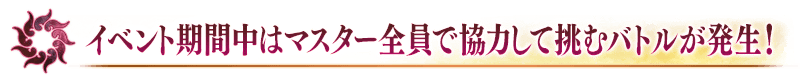
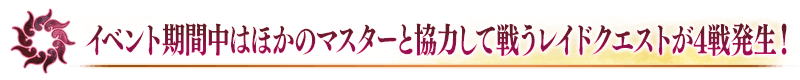
tunguska-sanctuary_02_huesd

Changed region(s): [[0.0938, 0.275, 1.0, 0.725]]

diff --git a/common/js/sidebar.js b/common/js/sidebar.js
@@ -5,7 +5,7 @@ function loadsidebar()
 	 window.location.href = targetProtocol + window.location.href.substring(window.location.protocol.length);
 	}
 	if(!(location.pathname=='/fgo-vz/'||location.pathname.indexOf('index')!=-1)) {$('div.container').prepend('<script async src="//pagead2.googlesyndication.com/pagead/js/adsbygoogle.js"><\/script><div style="margin:0px auto;width:728px;height:90px;background:url(\'common/images/info_banner.png\');"><ins class="adsbygoogle"     style="display:inline-block;width:728px;height:90px"     data-ad-client="ca-pub-3881979894805188"     data-ad-slot="5322095555"></ins><script>(adsbygoogle = window.adsbygoogle || []).push({});<\/script></div>');slideOpen();}
-	$('#div_right_sidebar').append('<a href="./"><div class="sidebarl" style="background-image:url(common/images/sidebar01.png);">首頁</div></a><a href="https://www.facebook.com/472978160149131/" target="_blank"><div class="sidebarl" style="background-image:url(common/images/sidebar17.png);">Facebook</div></a><a href="https://discord.gg/nEaXVvS" target="_blank"><div class="sidebarl" style="background-image:url(common/images/sidebar17.png);">Discord</div></a><a href="servant.html"><div class="sidebarl" style="background-image:url(common/images/sidebar05.png);">從者</div></a><a href="skill.html"><div class="sidebar" style="background-image:url(common/images/sidebar00.png);">技能</div></a><a href="noble_phantasm.html"><div class="sidebar" style="background-image:url(common/images/sidebar00.png);">寶具</div></a><a href="lv100.html"><div class="sidebar" style="background-image:url(common/images/sidebar00.png);">HP與ATK</div></a><a href="hidden.html"><div class="sidebar" style="background-image:url(common/images/sidebar00.png);">隱藏數値</div></a><a href="craft_essence.html"><div class="sidebarl" style="background-image:url(common/images/sidebar09.png);">概念禮裝</div></a><a href="command_code.html"><div class="sidebarl" style="background-image:url(common/images/sidebar18.png);">指令紋章</div></a><a href="item_drop.html"><div class="sidebarl" style="background-image:url(common/images/sidebar15.png);">素材道具</div></a><a href="quest.html"><div class="sidebarl" style="background-image:url(common/images/sidebar04.png);">關卡</div></a><a href="master_equip.html"><div class="sidebarl" style="background-image:url(common/images/sidebar03.png);">御主相關</div></a><a href="donate.html"><div class="sidebarl" style="background-image:url(common/images/sidebar11.png);"><span class="red">贊助支持</span></div></a><div class="sidebarl" id="survey_bannner" style="background-image:url(common/images/sidebar08.png);">意見回饋</div><a href="event_history.html"><div class="sidebarl" style="background-image:url(common/images/sidebar10.png);">過去活動</div></a><a href="event_main_quest_clear_cp4.html" title="『「FGO 迦勒底・衛星基地台 2021-2022」福岡會場舉辦記念宣傳活動』"><div class="sidebar_event" style="background-image:url(common/images/2021/main_quest_clear_cp4_exqsi/top_banner.png);"></div></a><a href="gacha_main_quest_clear_cp4_pu.html" title="「阿瓦隆・勒菲通過聲援Pick Up召喚(每日交替)」"><div class="sidebar_event" style="background-image:url(common/images/2021/main_quest_clear_cp4_pu_xjtox/top_banner.png);"></div></a><a href="event_winter2022_cp.html" title="『「FGO 迦勒底・衛星基地台 2021-2022」福岡會場舉辦記念宣傳活動』"><div class="sidebar_event" style="background-image:url(common/images/2021/winter2022_cp_qafhf/top_banner.png);"></div></a><a href="gacha_christmas2021_pu.html" title="「聖誕節製作派對！Pick Up召喚(每日交替)」"><div class="sidebar_event" style="background-image:url(common/images/2021/christmas2021_pu_pkdsh/top_banner.png);"></div></a><a href="event_tunguska-sanctuary.html" title="「非靈長生存圏 通古斯卡聖域」"><div class="sidebar_event" style="background-image:url(common/images/2021/tunguska-sanctuary_awkde/top_banner.png);"></div></a><a href="event_main_quest_clear_cp3.html" title="「主線關卡通過聲援宣傳活動 第3彈」"><div class="sidebar_event" style="background-image:url(common/images/2021/main_quest_clear_cp3_yqiyt/top_banner.png);"></div></a><a href="event_1201info.html" title="魔力稜鏡交換限定概念禮裝追加！"><div class="sidebar_event" style="background-image:url(common/images/2021/1201info_viisje/top_banner.png);"></div></a><a href="event_main_quest_clear_cp2.html" title="「主線關卡通過聲援宣傳活動 第2彈」"><div class="sidebar_event" style="background-image:url(common/images/2021/main_quest_clear_cp2_02_qmzsv/top_banner.png);"></div></a><a href="event_main_quest_clear_cp1.html" title="「主線關卡通過聲援宣傳活動 第1彈」"><div class="sidebar_event" style="background-image:url(common/images/2021/main_quest_clear_cp1_02_ihxkb/top_banner.png);"></div></a><div style="height:35px;"></div>');
+	$('#div_right_sidebar').append('<a href="./"><div class="sidebarl" style="background-image:url(common/images/sidebar01.png);">首頁</div></a><a href="https://www.facebook.com/472978160149131/" target="_blank"><div class="sidebarl" style="background-image:url(common/images/sidebar17.png);">Facebook</div></a><a href="https://discord.gg/nEaXVvS" target="_blank"><div class="sidebarl" style="background-image:url(common/images/sidebar17.png);">Discord</div></a><a href="servant.html"><div class="sidebarl" style="background-image:url(common/images/sidebar05.png);">從者</div></a><a href="skill.html"><div class="sidebar" style="background-image:url(common/images/sidebar00.png);">技能</div></a><a href="noble_phantasm.html"><div class="sidebar" style="background-image:url(common/images/sidebar00.png);">寶具</div></a><a href="lv100.html"><div class="sidebar" style="background-image:url(common/images/sidebar00.png);">HP與ATK</div></a><a href="hidden.html"><div class="sidebar" style="background-image:url(common/images/sidebar00.png);">隱藏數値</div></a><a href="craft_essence.html"><div class="sidebarl" style="background-image:url(common/images/sidebar09.png);">概念禮裝</div></a><a href="command_code.html"><div class="sidebarl" style="background-image:url(common/images/sidebar18.png);">指令紋章</div></a><a href="item_drop.html"><div class="sidebarl" style="background-image:url(common/images/sidebar15.png);">素材道具</div></a><a href="quest.html"><div class="sidebarl" style="background-image:url(common/images/sidebar04.png);">關卡</div></a><a href="master_equip.html"><div class="sidebarl" style="background-image:url(common/images/sidebar03.png);">御主相關</div></a><a href="donate.html"><div class="sidebarl" style="background-image:url(common/images/sidebar11.png);"><span class="red">贊助支持</span></div></a><div class="sidebarl" id="survey_bannner" style="background-image:url(common/images/sidebar08.png);">意見回饋</div><a href="event_history.html"><div class="sidebarl" style="background-image:url(common/images/sidebar10.png);">過去活動</div></a><a href="event_tunguska-sanctuary.html" title="「非靈長生存圏 通古斯卡聖域」"><div class="sidebar_event" style="background-image:url(common/images/2021/tunguska-sanctuary_02_huesd/top_banner.png);"></div></a><a href="event_main_quest_clear_cp4.html" title="『「FGO 迦勒底・衛星基地台 2021-2022」福岡會場舉辦記念宣傳活動』"><div class="sidebar_event" style="background-image:url(common/images/2021/main_quest_clear_cp4_exqsi/top_banner.png);"></div></a><a href="gacha_main_quest_clear_cp4_pu.html" title="「阿瓦隆・勒菲通過聲援Pick Up召喚(每日交替)」"><div class="sidebar_event" style="background-image:url(common/images/2021/main_quest_clear_cp4_pu_xjtox/top_banner.png);"></div></a><a href="event_winter2022_cp.html" title="『「FGO 迦勒底・衛星基地台 2021-2022」福岡會場舉辦記念宣傳活動』"><div class="sidebar_event" style="background-image:url(common/images/2021/winter2022_cp_qafhf/top_banner.png);"></div></a><a href="gacha_christmas2021_pu.html" title="「聖誕節製作派對！Pick Up召喚(每日交替)」"><div class="sidebar_event" style="background-image:url(common/images/2021/christmas2021_pu_pkdsh/top_banner.png);"></div></a><a href="event_main_quest_clear_cp3.html" title="「主線關卡通過聲援宣傳活動 第3彈」"><div class="sidebar_event" style="background-image:url(common/images/2021/main_quest_clear_cp3_yqiyt/top_banner.png);"></div></a><a href="event_1201info.html" title="魔力稜鏡交換限定概念禮裝追加！"><div class="sidebar_event" style="background-image:url(common/images/2021/1201info_viisje/top_banner.png);"></div></a><a href="event_main_quest_clear_cp2.html" title="「主線關卡通過聲援宣傳活動 第2彈」"><div class="sidebar_event" style="background-image:url(common/images/2021/main_quest_clear_cp2_02_qmzsv/top_banner.png);"></div></a><a href="event_main_quest_clear_cp1.html" title="「主線關卡通過聲援宣傳活動 第1彈」"><div class="sidebar_event" style="background-image:url(common/images/2021/main_quest_clear_cp1_02_ihxkb/top_banner.png);"></div></a><div style="height:35px;"></div>');
 	$('#survey_bannner').on("click", function() {
 		if(!confirm ('本站與FGO官方無任何關係，不受理任何投訴\n點擊[取消]前往') ){
 			var newwin = window.open();

diff --git a/event_tunguska-sanctuary.html b/event_tunguska-sanctuary.html
@@ -89,9 +89,13 @@ body {
     <!--主要內容區塊開始-->
     <div id="div_content"><div class="container">
 <article class="content textsize" style="width:840px">
-<!-- block -->
 <!-- block--->
-<p><img alt="TOPバナー" height="300" src="common/images/2021/tunguska-sanctuary_awkde/top_banner.png" width="800"/>
+<p><img alt="TOPバナー" height="300" src="common/images/2021/tunguska-sanctuary_02_huesd/top_banner.png" width="800"/>
+<span class="em01">
+※12月18日(六) 17:00圖片更新
+</span>
+</p>
+<p><img alt="序幕(プロローグ)" height="300" src="common/images/2021/tunguska-sanctuary_02_huesd/prologue.png" width="800"/>
 </p>
 <p class="heading" id="ttl1"><img alt="" src="common/images/2021/tunguska-sanctuary_awkde/midashi_01.png"/></p>
 <div class="em01">
@@ -106,7 +110,9 @@ body {
 </p>
 </div>
 <p><span class="diamond">◆</span><span class="strong">活動預定舉辦</span><span class="diamond">◆</span><br/>
-<span class="em01">2021年12月下旬</span></p>
+<span class="em01">2021年12月22日(三) 17:00(預定)～<br/>
+※12月18日(六) 17:00更新
+</span></p>
 <p><span class="diamond">◆</span><span class="strong">活動參加條件</span><span class="diamond">◆</span><br/>
 <span class="em01 notice">滿足以下條件的御主才能參加<br/>
 ・通過第2部 第6章「Lostbelt No.6 妖精圓卓領域 阿瓦隆・勒菲 星辰誕生之刻」
@@ -134,32 +140,113 @@ body {
 <!--/block-->
 <!-- block--->
 <p class="heading" id="ttl3"><img alt="" src="common/images/2021/tunguska-sanctuary_02_huesd/midashi_03.png"/></p>
+<p><img alt="" src="common/images/2021/tunguska-sanctuary_02_huesd/info_raid_01.png"/></p>
 <div class="em01">
 <p>
-【12月15日(三) 17:00追記】<br/>
-期間限定活動「非靈長生存圏 通古斯卡聖域」中，在活動期間中會發生幾次與其他御主合作作戰的特殊形式戰鬥。<br/>
-關於詳情將在2021年12月18日(六) 16:00～(預定)的「FGO 迦勒底・サテライトステーション 2021-2022」福岡会場にてご介紹いたします！
+【12月18日(六) 17:00追記】<br/>
+在「FGO 迦勒底・衛星基地台 2021-2022」福岡會場，發表了在期間限定活動「非靈長生存圏 通古斯卡聖域」中其他御主合作作戰的襲擊關卡的舉辦時間。<br/>
+舉辦時間如下述。
 </p>
 </div>
-<div class="attention">
+<div class="table_box">
+<p>
+【襲擊關卡舉辦時間表】
+</p>
+<table align="center" class="trbgcolor" style=";;margin-bottom: 10px;" width="100%">
+<tbody>
+<tr>
+<th width="30%">關卡的種類</th>
+<th width="70%">舉辦期間</th>
+</tr>
+<tr>
+<td>
+襲擊關卡第1戰
+</td>
+<td>
+2021年12月23日(四) 17:00～深夜結束預定
+</td>
+</tr>
+<!----->
+<tr>
+<td>
+襲擊關卡第2戰
+</td>
+<td>
+2021年12月24日(五) 17:00～深夜結束預定
+</td>
+</tr>
+<!----->
+<tr>
+<td>
+襲擊關卡第3戰
+</td>
+<td>
+2021年12月25日(六) 17:00～深夜結束預定
+</td>
+</tr>
+<!----->
+<tr>
+<td>
+襲擊關卡第4戰
+</td>
+<td>
+2021年12月26日(日) 17:00～12月27日(一) 昼結束預定
+</td>
+</tr>
+</tbody>
+</table>
+</div>
+<p><img alt="" src="common/images/2021/tunguska-sanctuary_02_huesd/info_raid_02.png"/></p>
+<!--/block--->
+<!-- block--->
+<p class="heading" id="ttl8"><img alt="" src="common/images/2021/tunguska-sanctuary_02_huesd/midashi_08.png"/></p>
 <div class="em01">
 <p>
-<span class="strong">「FGO 迦勒底・衛星基地台 2021-2022」的詳情在此</span><br/>
-<a href="https://fes.fate-go.jp/winter/" target="_blank">https://fes.fate-go.jp/winter/</a>
+【12月18日(六) 17:00追記】<br/>
+介紹在「FGO 迦勒底・衛星基地台 2021-2022」福岡會場先行公開的期間限定活動「非靈長生存圏 通古斯卡聖域」Web用告知廣告！<br/>
+	
+在「Fate/Grand Order」官方網站內首頁及Gallery，公開了期間限定活動「非靈長生存圏 通古斯卡聖域」的Web用告知廣告。敬請確認。
+
 </p>
 </div>
-<p><img alt="" src="common/images/2021/tunguska-sanctuary_02_huesd/info_image_01.png"/></p>
+<!-- <p><img alt="" src="common/images/2021/tunguska-sanctuary_02_huesd/info_ss_03.png"/></p> -->
+<div style="position:relative;height:0;padding-bottom:56.25%">
+<iframe src="https://www.youtube.com/embed/2Z8DAE2-YPA?ecver=2" width="640" height="360" frameborder="0" gesture="media" style="position:absolute;width:100%;height:100%;left:0" allowfullscreen></iframe></div>
+<p class="em01">動畫製作：A-1 Pictures</p>
+<!--/block-->
+<!-- block--->
+<p class="heading" id="ttl5"><img alt="" src="common/images/2021/tunguska-sanctuary_02_huesd/midashi_05.png"/></p>
+<div class="em01">
+<p>
+【12月18日(六) 17:00追記】<br/>
+「FGO 迦勒底・衛星基地台 2021-2022」福岡會場中，公開了新概念禮裝的插圖。<br/>
+關於概念禮裝的詳情，敬請期待續報。
+</p>
 </div>
-<br/>
+<p><img alt="" src="common/images/2021/tunguska-sanctuary_02_huesd/info_image_02.png"/></p>
+<!--/block--->
+<!-- block--->
+<p class="heading" id="ttl6"><img alt="" src="common/images/2021/tunguska-sanctuary_02_huesd/midashi_06.png"/></p>
+<div class="em01">
+<p>
+【12月18日(六) 17:00追記】<br/>
+在「FGO 迦勒底・衛星基地台 2021-2022」福岡會場，發表了期間限定活動「非靈長生存圏 通古斯卡聖域」中在聖晶石召喚初登場的2位新從者！<br/>
+關於從者的詳情，敬請期待續報。
+</p>
+</div>
+<p><img alt="" src="common/images/2021/tunguska-sanctuary_02_huesd/servant_details_l_01.png"/></p>
+<p><img alt="" src="common/images/2021/tunguska-sanctuary_02_huesd/servant_details_l_02.png"/></p>
 <!--/block--->
 <!-- block--->
 <hr class="border"/>
 <div class="em01">
 <p>
+【12月18日(六) 18:00追記】<br/>
 其他還有，<br/>
 ・主線關卡通過聲援宣傳活動 第1彈<br/>
 ・主線關卡通過聲援宣傳活動 第2彈<br/>
 ・主線關卡通過聲援宣傳活動 第3彈<br/>
+・主線關卡通過聲援宣傳活動 第4彈<br/>
 以期間限定舉辦中！<br/>
 關於詳情，請自下述橫幅確認。
 </p>
@@ -183,6 +270,13 @@ body {
 </span>
 <a href="event_main_quest_clear_cp3.html">
 <img alt="" src="common/images/2021/main_quest_clear_cp3_yqiyt/top_banner.png"/>
+</a>
+</p>
+<p>
+<span class="indent">■「主線關卡通過聲援宣傳活動 第4彈」詳細情報
+</span>
+<a href="event_main_quest_clear_cp4.html">
+<img alt="" src="common/images/2021/main_quest_clear_cp4_exqsi/top_banner.png"/>
 </a>
 </p>
 <!--/block--->

diff --git a/index.html b/index.html
@@ -176,9 +176,9 @@ $(function(){
 }
 </style>
 
-<h1 class="headline3"><dl><dt class="date">12/15</dt><span class="new">&nbsp;</span><dd>期間限定活動「非靈長生存圏 通古斯卡聖域」預定12月下旬舉辦！</dd></dl></h1>
+<h1 class="headline3"><dl><dt class="date">12/18</dt><span class="new">&nbsp;</span><dd>期間限定活動「非靈長生存圏 通古斯卡聖域」預定12月22日(三) 舉辦！</dd></dl></h1>
 <p>
-<a href="event_tunguska-sanctuary.html"><img src="common/images/2021/tunguska-sanctuary_awkde/top_banner.png" width=400 /></a>
+<a href="event_tunguska-sanctuary.html"><img src="common/images/2021/tunguska-sanctuary_02_huesd/top_banner.png" width=400 /></a>
 <a href="event_winter2022_cp.html"><img src="common/images/2021/winter2022_cp_qafhf/top_banner.png" width=400 /></a>
 <a href="event_main_quest_clear_cp4.html"><img src="common/images/2021/main_quest_clear_cp4_exqsi/top_banner.png" width=400 /></a>
 <a href="gacha_main_quest_clear_cp4_pu.html"><img src="common/images/2021/main_quest_clear_cp4_pu_xjtox/top_banner.png" width=400 /></a>
@@ -206,10 +206,9 @@ $(function(){
 <p>
 <a href="event_christmas2021.html"><img src="common/images/2021/christmas2021_xazek/top_banner02.png" width=400 /></a>
 <a href="gacha_christmas2021_pu.html"><img src="common/images/2021/christmas2021_pu_pkdsh/top_banner.png" width=400 /></a>
-<a href="event_tunguska-sanctuary.html"><img src="common/images/2021/tunguska-sanctuary_awkde/top_banner.png" width=400 /></a>
+<a href="event_intermission18.html"><img src="common/images/terminal_banner_80581.png" width=400 /></a>
+<a href="gacha_intermission18_pu.html"><img src="common/images/terminal_banner_80582.png" width=400 /></a>
 <a href="event_main_quest_clear_cp3.html"><img src="common/images/2021/main_quest_clear_cp3_yqiyt/top_banner.png" width=400 /></a>
-<a href="event_intermission18.html"><img src="common/images/2021/intermission18_lebgc/top_banner.png" width=400 /></a>
-<a href="gacha_intermission18_pu.html"><img src="common/images/2021/intermission18_pu_qkiuy/top_banner.png" width=400 /></a>
 <a href="event_1201info.html"><img src="common/images/2021/1201info_viisje/top_banner.png" width=400 /></a>
 <div class="paragraph_details">
 <table class="noborder nopadding">

diff --git a/event_winter2022_cp.html b/event_winter2022_cp.html
@@ -334,6 +334,53 @@
 </p>
 </div>
 <!--/block-->
+<!-- 追記--->
+<p class="heading" id="ttl4"><img alt="" src="common/images/2021/winter2022_cp_02_sefds/midashi_04.png"/></p>
+<div class="float_box ovh_vi">
+<div class="float_right_box" style="width: 28%">
+<img alt="" src="common/images/all_item_list/info_image_01.png"/>
+</div>
+<div class="float_none_box">
+<div class="em01">
+<p>
+【12月18日(六) 17:00追記】<br/>
+下述的期間中，為了記念「FGO 迦勒底・衛星基地台 2021-2022」福岡會場舉辦，在初次登入時贈送<span class="notice">聖晶石10個</span>！
+</p>
+</div>
+<p><span class="diamond">◆</span><span class="strong">領取期間</span><span class="diamond">◆</span><br/>
+<span class="em01">
+<span class="notice">
+2021年12月19日(日) 3:00～12月22日(三) 2:59
+</span><br/>
+上述期間中，在初次進行登入「Fate/Grand Order」的時間點，贈予至禮物箱。
+</span>
+</p>
+<p>
+<span class="em01">
+<span class="indent notice">
+※期間內未登入的話無法領取。	
+</span>
+<span class="indent">
+※禮物只能領取1次。
+</span>
+</span>
+</p>
+</div>
+</div>
+<p><span class="diamond">◆</span><span class="strong">贈送內容</span><span class="diamond">◆</span><br/>
+<span class="em01">
+聖晶石 10個
+</span>
+</p>
+<p><span class="diamond">◆</span><span class="strong">贈送對象</span><span class="diamond">◆</span><br/>
+<span class="em01">
+<span class="notice">2021年12月19日(日) 2:59前通過「特異點F 炎上汙染都市 冬木」的御主對象</span>
+<span class="indent notice">
+※上述時間前，在管理室(ターミナル)畫面的關卡橫幅必須要有「CLEAR」的文字顯示。	
+</span>
+</span>
+</p>
+<!--/追記--->
 </article>
 </div>
 <div id="gotop"><a href="#"><img src="common/images/btn_gotop_off.jpg" width="47" height="47" alt="返回頂端" /></a></div>

diff --git a/event_history.html b/event_history.html
@@ -151,7 +151,7 @@
 	<a href="event_main_quest_clear_cp4.html"><img data-src="common/images/2021/main_quest_clear_cp4_exqsi/top_banner.png" title="「主線關卡通過聲援宣傳活動 第4彈」" class="lazyload banner360" /></a>
 	<a href="gacha_main_quest_clear_cp4_pu.html"><img data-src="common/images/2021/main_quest_clear_cp4_pu_xjtox/top_banner.png" title="「阿瓦隆・勒菲通過聲援Pick Up召喚(每日交替)」" class="lazyload banner360" /></a>
 	<a href="event_winter2022_cp.html"><img data-src="common/images/2021/winter2022_cp_qafhf/top_banner.png" title="『「FGO 迦勒底・衛星基地台 2021-2022」福岡會場舉辦記念宣傳活動』" class="lazyload banner360" /></a>
-	<a href="event_tunguska-sanctuary.html"><img data-src="common/images/2021/tunguska-sanctuary_awkde/top_banner.png" title="「非靈長生存圏 通古斯卡聖域」" class="lazyload banner360" /></a>
+	<a href="event_tunguska-sanctuary.html"><img data-src="common/images/2021/tunguska-sanctuary_02_huesd/top_banner.png" title="「非靈長生存圏 通古斯卡聖域」" class="lazyload banner360" /></a>
 	<a href="event_christmas2021.html"><img data-src="common/images/2021/christmas2021_xazek/top_banner02.png" title="「聖誕節製作派對！」" class="lazyload banner360" /></a>
 	<a href="gacha_christmas2021_pu.html"><img data-src="common/images/2021/christmas2021_pu_pkdsh/top_banner.png" title="「聖誕節製作派對！Pick Up召喚(每日交替)」 class="lazyload banner360" /></a>
 	<a href="event_intermission18.html"><img data-src="common/images/2021/intermission18_lebgc/top_banner.png" title="「幕間物語宣傳活動 第18彈」" class="lazyload banner360" /></a>
